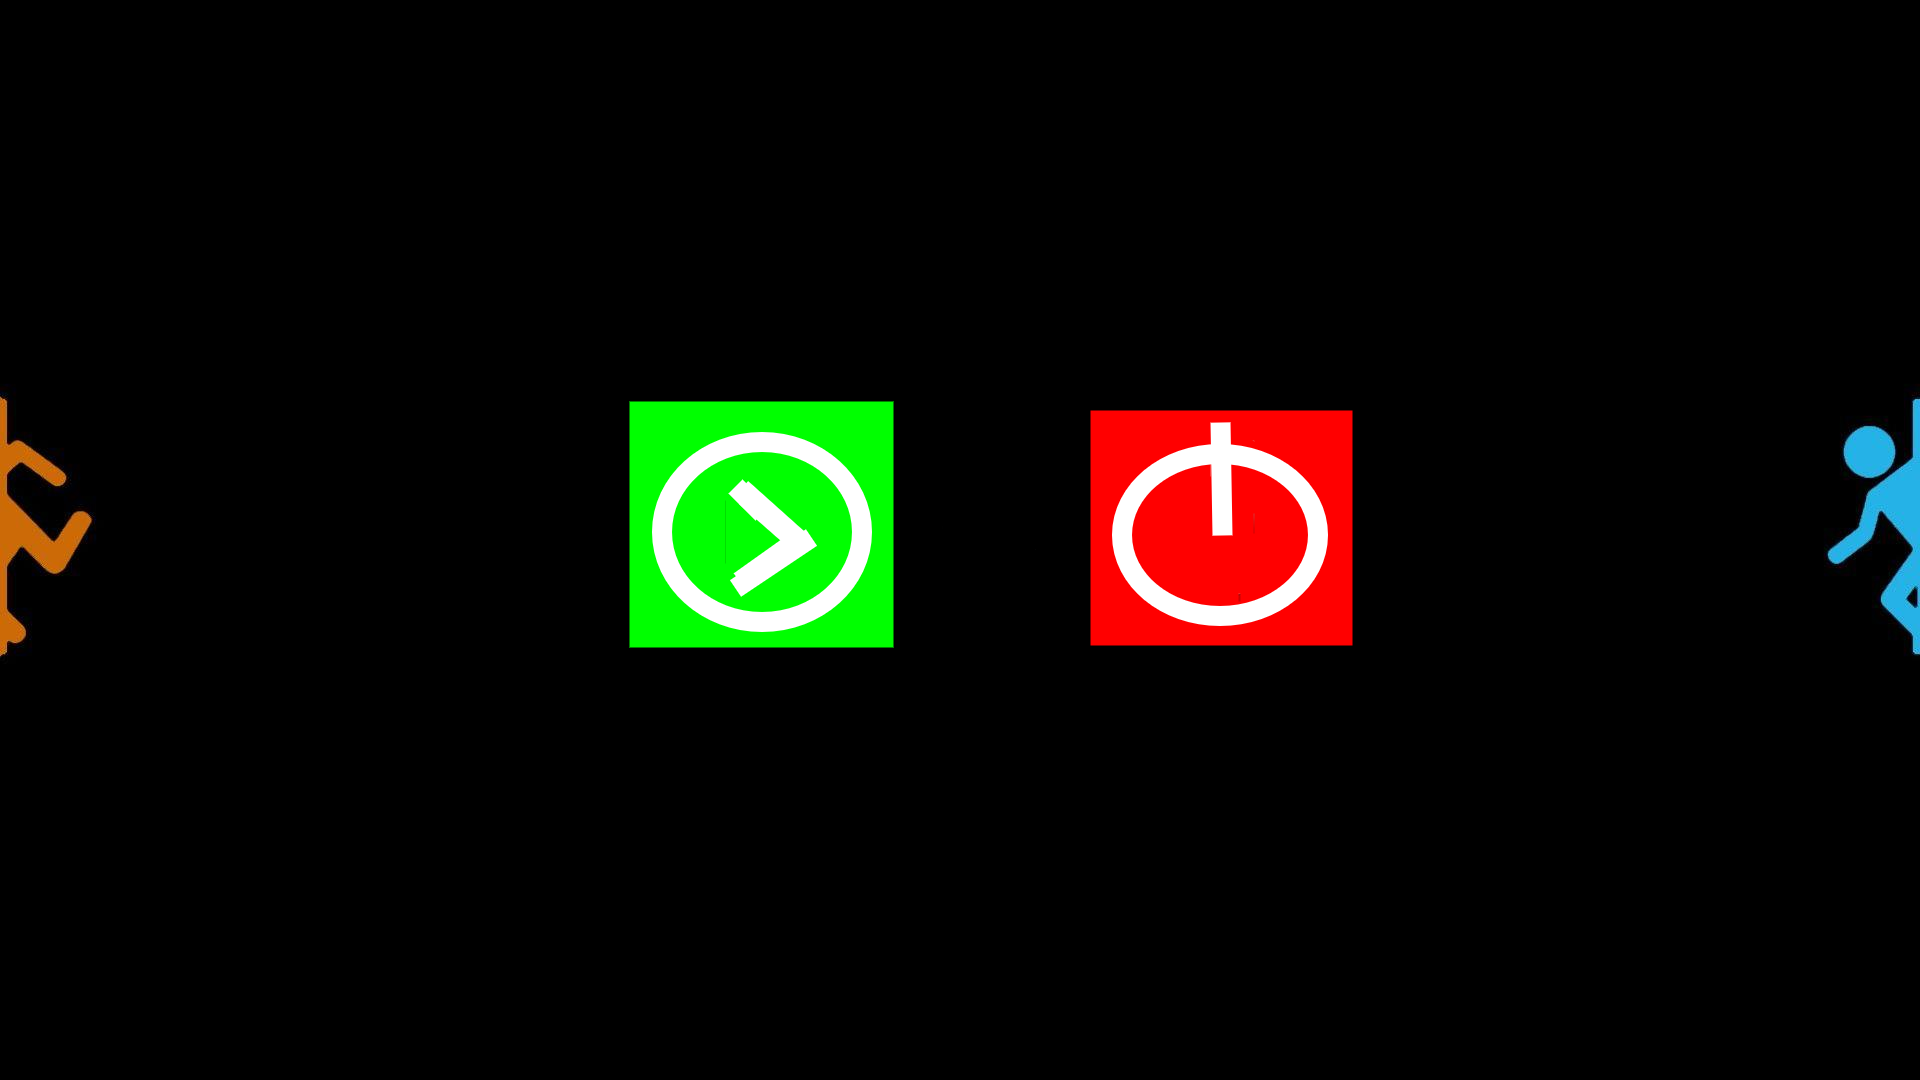
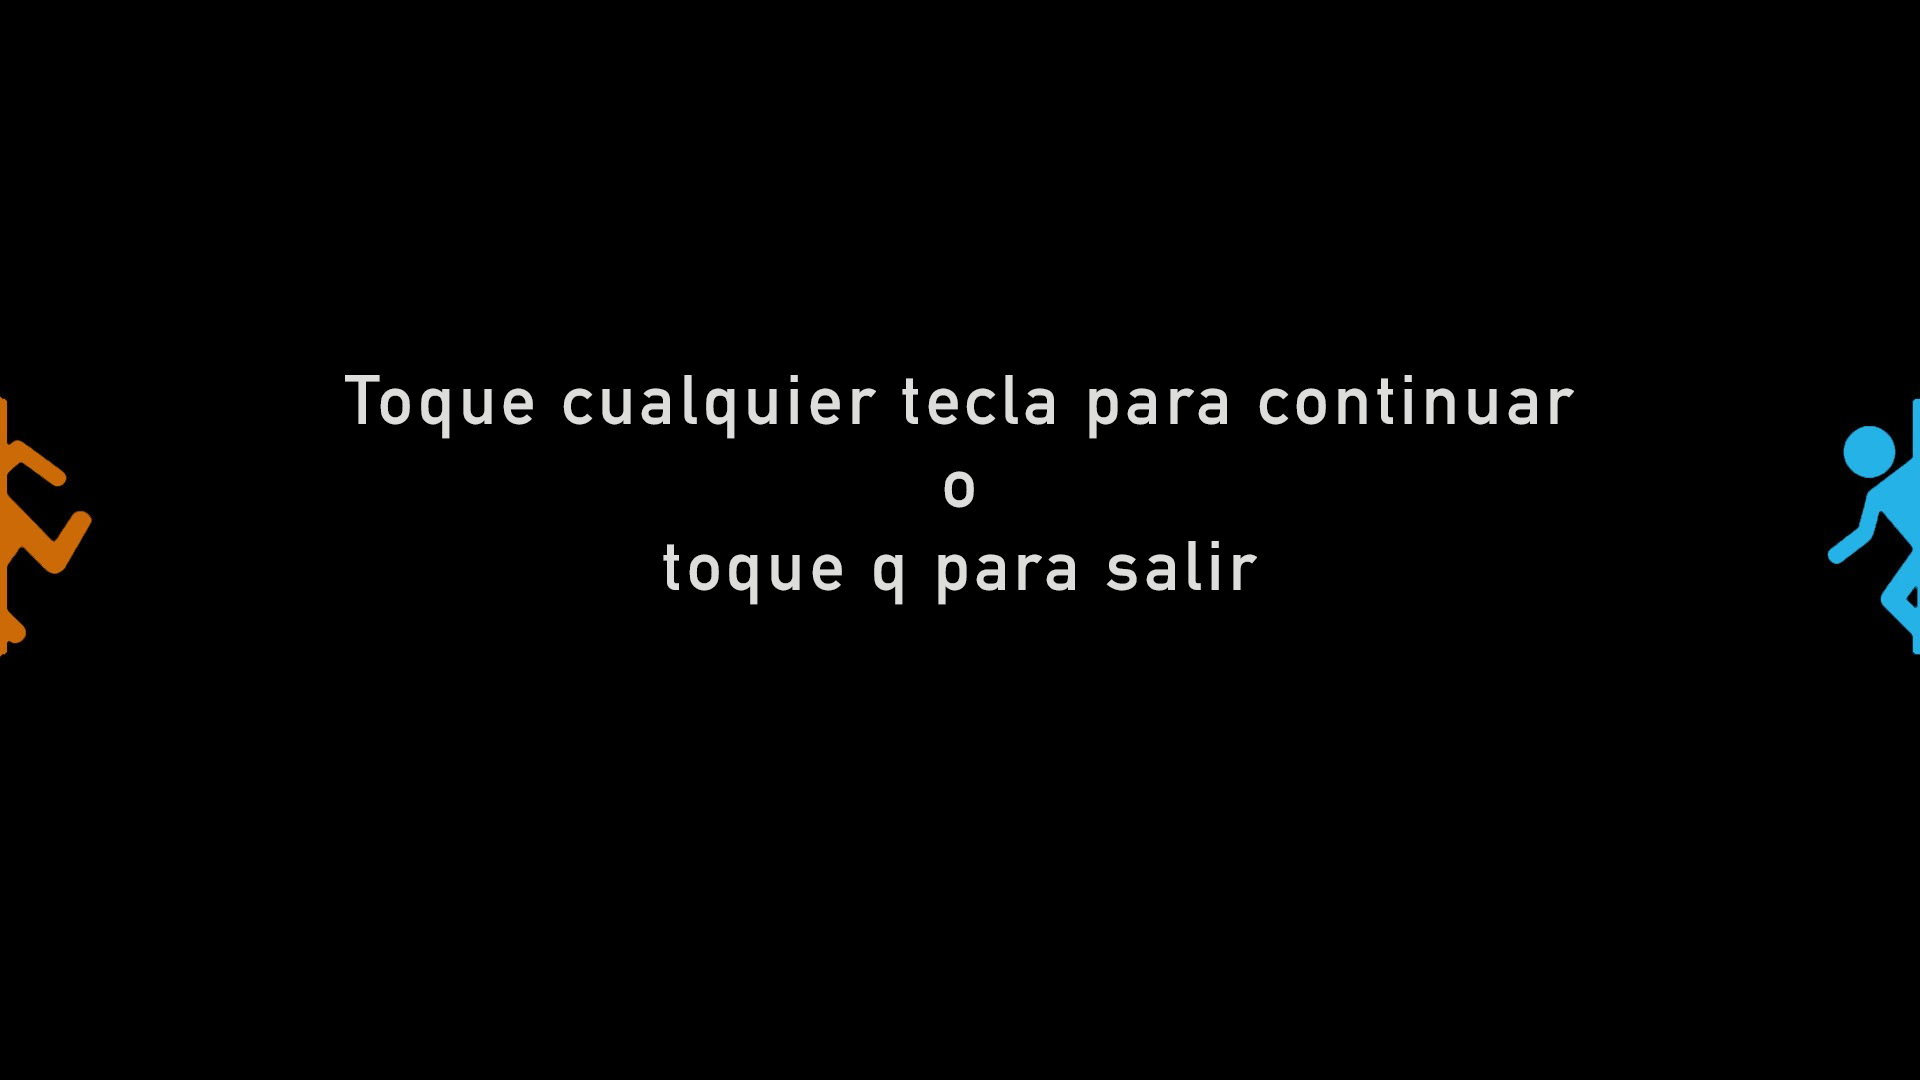
cambio fondo fin de juego y agrego cambios para que grabe ffmpeg

Changed region(s): [[0.1875, 0.3361, 0.8125, 0.6111]]

diff --git a/src/client/scene_manager.cpp b/src/client/scene_manager.cpp
@@ -6,10 +6,13 @@ SceneManager::SceneManager() :
     window(800,800) ,  
     model_facade(window),
     end_level_scene(window),
-    end_game_scene(window) {
+    end_game_scene(window),
+    ffmpeg() {
     this->window.setBackground(BACKGROUND_FILENAME);
     this->actual_screen = 0;
     this->level_change = false;
+    this->recording = false;
+    this->full_screen = false;
 }
 
 void SceneManager::renderAll() {
@@ -63,4 +66,31 @@ void SceneManager::putGameScene() {
 
 void SceneManager::resetLevelStage() {
     model_facade.resetModel();
+}
+
+void SceneManager::setFullScreen() {
+    if (this->full_screen) {
+        if (this->recording) {
+            this->record();
+        }
+        this->full_screen=false;
+    } else {
+        this->full_screen=true;
+    }
+    window.fullscreen();
+}
+
+void SceneManager::record() {
+    if (!this->full_screen) this->setFullScreen();
+    if (this->recording) {
+        this->recording = false;
+        this->ffmpeg.stopRecording();
+    } else {
+        this->recording = true;
+        this->ffmpeg.recordScreen();
+    }
+}  
+
+void SceneManager::stopRocording() {
+    if (this->recording) this->record();
 }

diff --git a/src/client/scene_manager.h b/src/client/scene_manager.h
@@ -3,6 +3,7 @@
 #include "../vista/ModelFacade.h"
 #include "../vista/next_level_screen/EndLevelScreen.h"
 #include "../vista/end_game_scene/end_game_scene.h"
+#include "ffmpeg/ffmpeg.h"
 #include <string>
 #include <vector>
 #define GAME_SCREEN 0
@@ -16,8 +17,11 @@ private:
     ModelFacade model_facade;
     EndLevelScreen end_level_scene;
     EndGameScene end_game_scene;
+    Ffmpeg ffmpeg;
     int actual_screen;
     bool level_change;
+    bool recording;
+    bool full_screen;
     void setActualScreen(int screen_num);
 public:
     SceneManager();
@@ -30,6 +34,9 @@ public:
     void putEndGameScene();
     int getActualScreen();
     void resetLevelStage();
+    void setFullScreen();
+    void record();  
+    void stopRocording();
 };
 
 #endif

diff --git a/src/client/Event_handler.cpp b/src/client/Event_handler.cpp
@@ -78,7 +78,7 @@ void EventHandler::handleKeyUp(SDL_KeyboardEvent& keyEvent) {
   switch (keyEvent.keysym.sym)
   {
     case SDLK_F11: {
-      messageSender.sendFullscreen();
+      local_scene_logic.setFullScreen();
       break;
     }
     case SDLK_d:{
@@ -124,6 +124,9 @@ void EventHandler::handleKeyUp(SDL_KeyboardEvent& keyEvent) {
     case SDLK_m: {
       messageSender.sendQuitGame();
       break;
+    }
+    case SDLK_c: {
+      local_scene_logic.record();
     }
     default:
       break;

diff --git a/src/client/client_controller.cpp b/src/client/client_controller.cpp
@@ -121,9 +121,9 @@ void ClientController::mainLoop() {
         }
         scene_manager.putEndGameScene();
         for (int i = 0; i<5;i++) {
-            std::cout<< "Exit in: " << 5-i << " seconds." << std::endl;
             usleep(1000000);
         }
+        scene_manager.stopRocording();
     } catch (const std::runtime_error &e) {
         std::cout << e.what() << std::endl;
     } catch (...) {

diff --git a/src/client/local_scene_logic.cpp b/src/client/local_scene_logic.cpp
@@ -29,5 +29,10 @@ void LocalSceneLogic::resetLocalSceneLogic() {
     this->next_level = false;
 }
 
+void LocalSceneLogic::setFullScreen() {
+    this->scene_manager.setFullScreen();
+}
 
-//HAY DOS HILOS ACCEDIENDO A ESTA CLASE, PROTEGERRRRRRRRRRRRRRRRRRRRRRRRRRRR
+void LocalSceneLogic::record() {
+    this->scene_manager.record();
+}

diff --git a/src/client/Message_sender.cpp b/src/client/Message_sender.cpp
@@ -42,10 +42,6 @@ void MessageSender::sendStop() {
   communicator->addMessageToSend("z");
 }
 
-void MessageSender::sendFullscreen() {
-//   modelFacade->setFullscreen();
-}
-
 void MessageSender::sendKillPlayer() {
   communicator->addMessageToSend("1");
 }

diff --git a/src/client/local_scene_logic.h b/src/client/local_scene_logic.h
@@ -15,7 +15,9 @@ public:
     void setEvent(std::string &event);
     bool getEndGame();
     bool getNextLevel();
-    void resetLocalSceneLogic();    
+    void resetLocalSceneLogic();
+    void setFullScreen();
+    void record();    
 };
 
 #endif

diff --git a/src/vista/end_game_scene/end_game_constants.h b/src/vista/end_game_scene/end_game_constants.h
@@ -1,6 +1,6 @@
 /*
 * Image
 */
-#define END_GAME_BACKGROUND_PATH "resources/img/end_game_screen.png"
+#define END_GAME_BACKGROUND_PATH "resources/img/end_game.png"
 #define BACKGROUND_WIDHT 1920
 #define BACKGROUND_HEIGHT 1080

diff --git a/src/client/Message_sender.h b/src/client/Message_sender.h
@@ -18,7 +18,6 @@ public:
   void sendQuitGame();
   void sendStart();
   void sendStop();
-  void sendFullscreen();
   void sendKillPlayer();
   void sendSuicide();
   void sendMoveRock();
